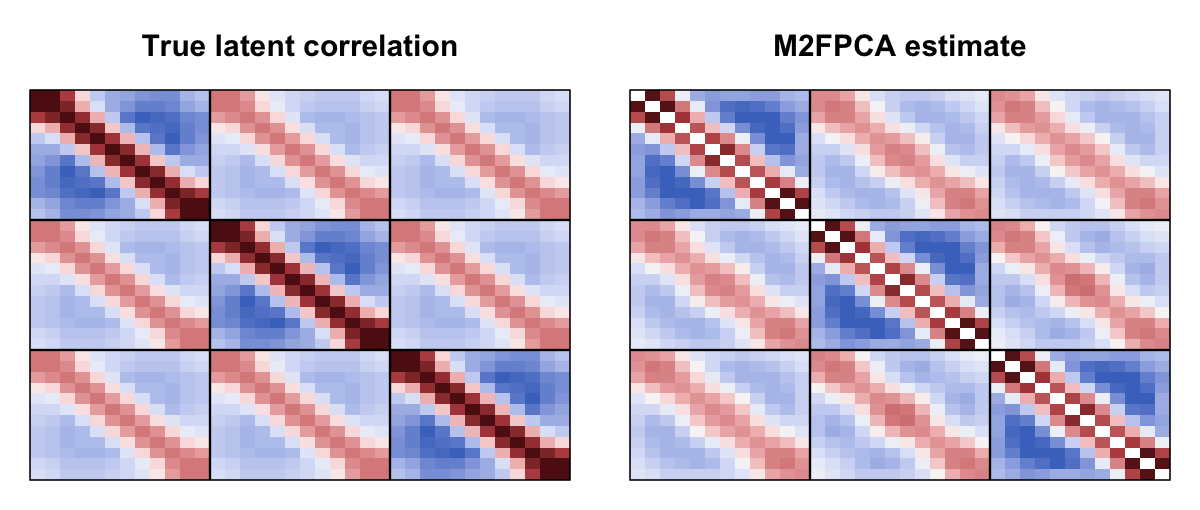
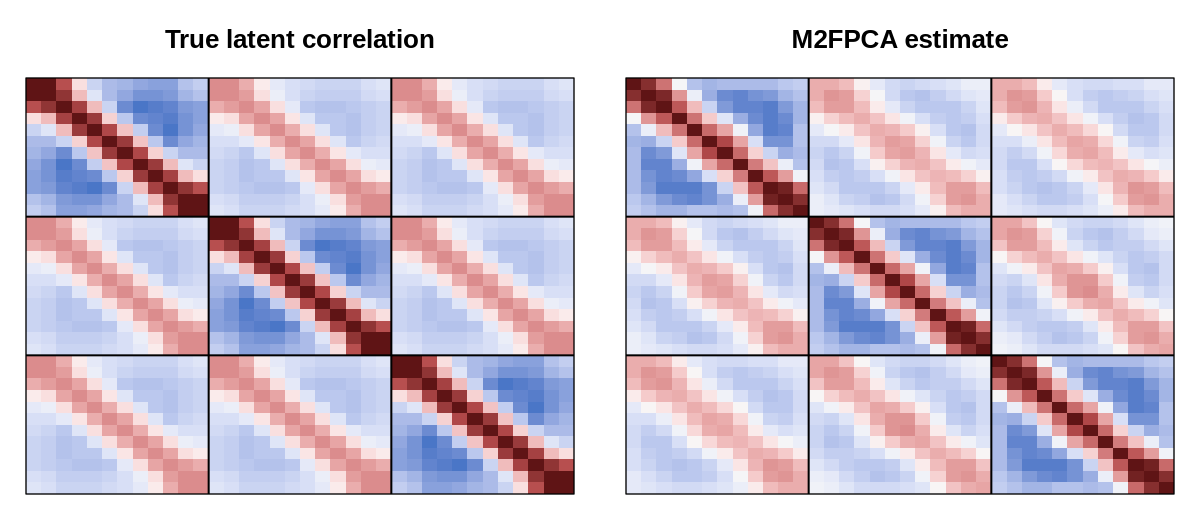
Fix README covariance figure: normalise estimate to correlation (unit diagonal); regenerate stale heatmap

diff --git a/README.md b/README.md
@@ -123,7 +123,8 @@ latent correlation is `Rcross %x% cov2cor(K)` with
 K_true <- Reduce("+", lapply(1:Lc, function(l) lambda[l] * outer(phi[, l], phi[, l])))
 RK     <- cov2cor(K_true)                 # true shared temporal correlation (m x m)
 R_true <- kronecker(Rcross, RK)           # true (mp x mp) latent correlation
-R_hat  <- cov.from.mpfpca.dir(fit)        # estimated (mp x mp) latent correlation
+# normalise the reconstructed covariance to a correlation (unit diagonal)
+R_hat  <- cov2cor(cov.from.mpfpca.dir(fit))   # estimated (mp x mp) latent correlation
 ```
 
 ``` r